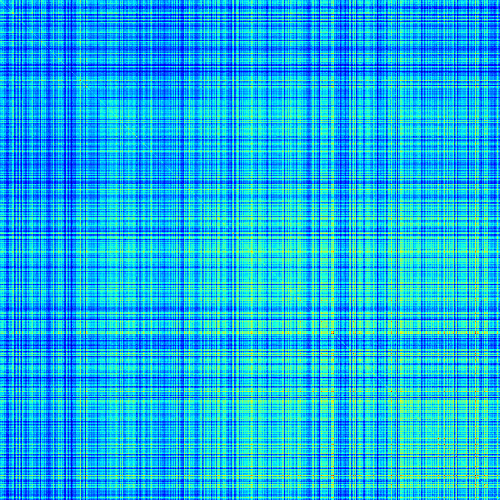
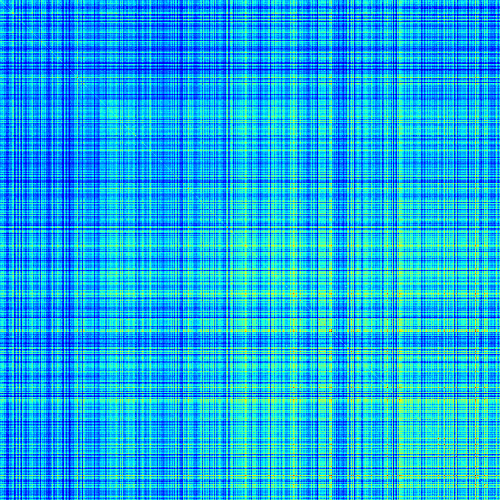
images dans G
ajout images dans G

diff --git a/G/genere_image.py b/G/genere_image.py
@@ -49,3 +49,23 @@ for matrice_gram in liste_gram:
         #G = reduire(G)
         
         plt.imsave(matrice_gram.split('.')[0]+'.png',G,format='png')
+        
+##
+
+chemin = './Gram.txt'
+fichier = open(chemin, 'rb')
+G = pickle.load(fichier)
+fichier.close()
+
+#G = reduire(G)
+#G = centrer(G)
+#G = reduire(G)
+
+plt.imsave('Gram.png',G,format='png')
+
+## Essai boucle
+
+for i in range(100):
+    G = reduire(G)
+    G = centrer(G)
+    #imshow(G)
